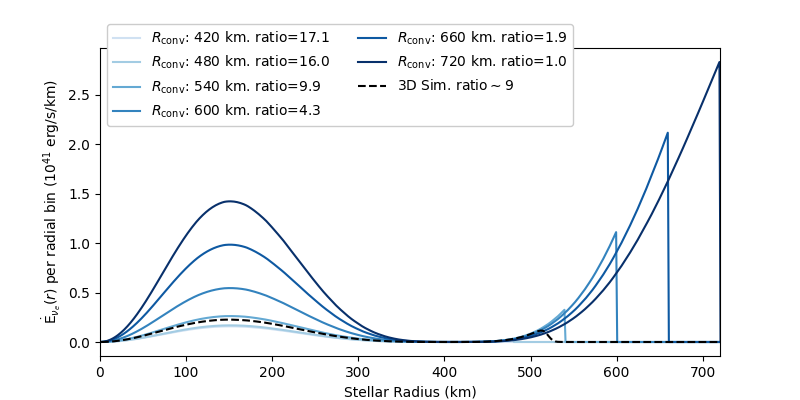
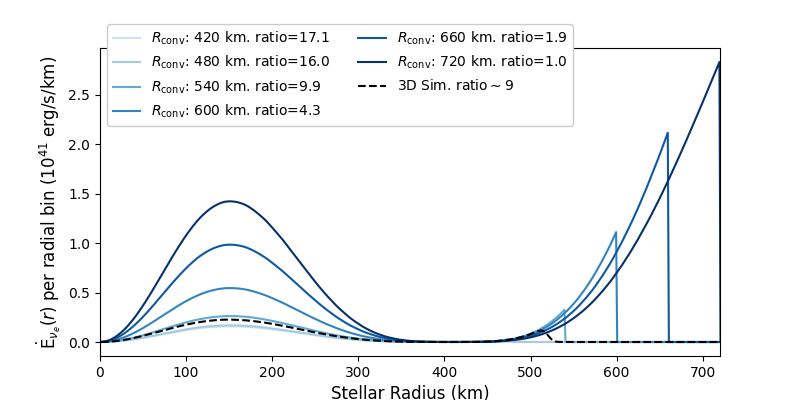
fix fontsize

Changed region(s): [[0.0312, 0.18, 0.0938, 0.87], [0.4062, 0.96, 0.625, 1.0]]

diff --git a/calc_nu_loss.py b/calc_nu_loss.py
@@ -51,8 +51,8 @@ def plot_nu_losses(rad_arr, Rconv_arr, nu_loss_arr, ratio_arr, sample=4):
 
     # set plot params
     ax.legend(ncols=2, loc='upper left', bbox_to_anchor=(0., 1.1), framealpha=1)
-    ax.set_xlabel("Stellar Radius (km)")
-    ax.set_ylabel('$\\mathrm{\\dot{E}}_{\\nu_e}(r)$ per radial bin ($10^{41}$ erg/s/km)')
+    ax.set_xlabel("Stellar Radius (km)", fontsize='large' )
+    ax.set_ylabel('$\\mathrm{\\dot{E}}_{\\nu_e}(r)$ per radial bin ($10^{41}$ erg/s/km)', fontsize='large')
 
     return fig, ax
 
